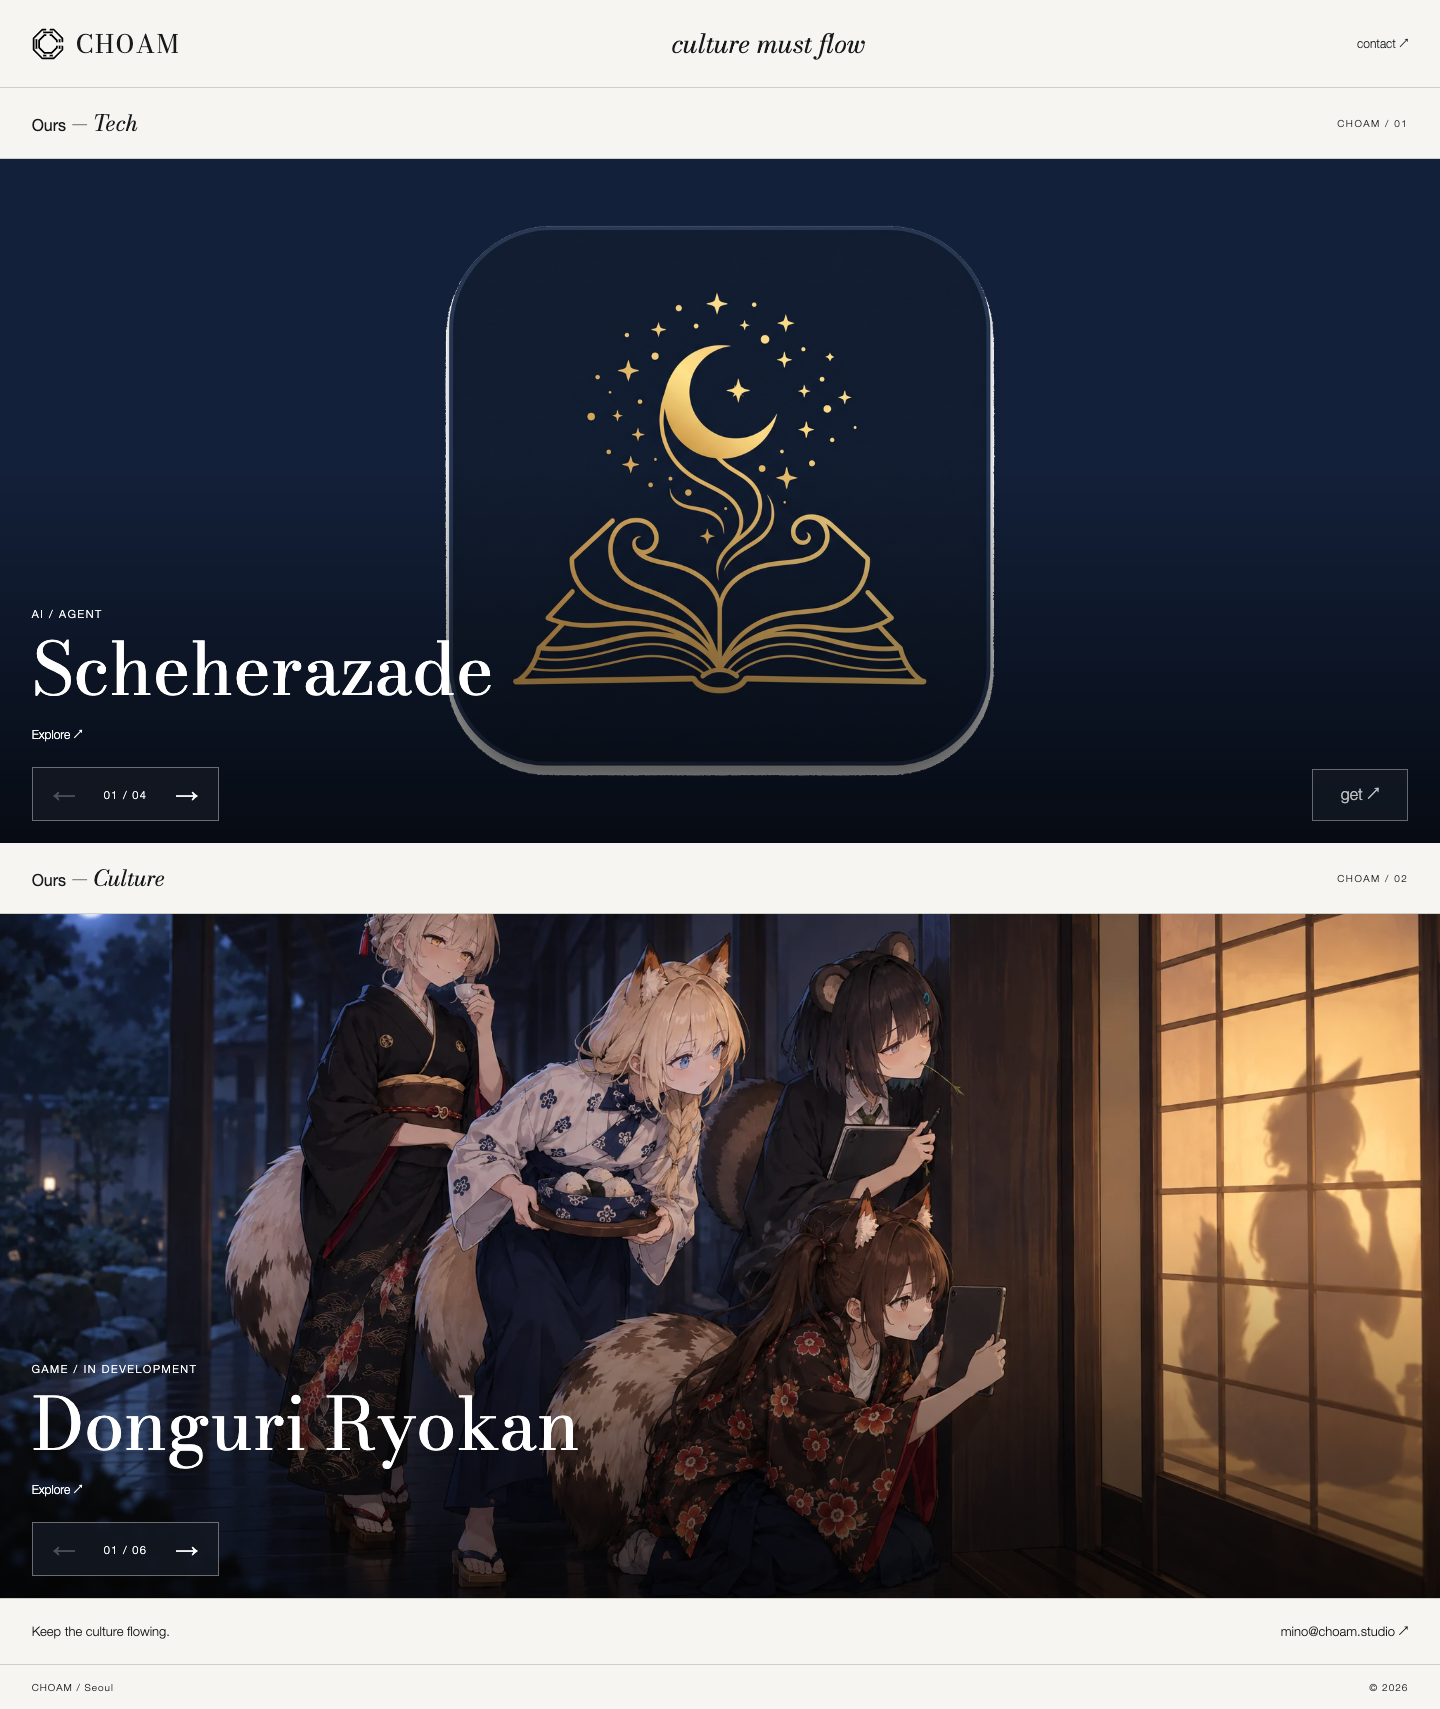
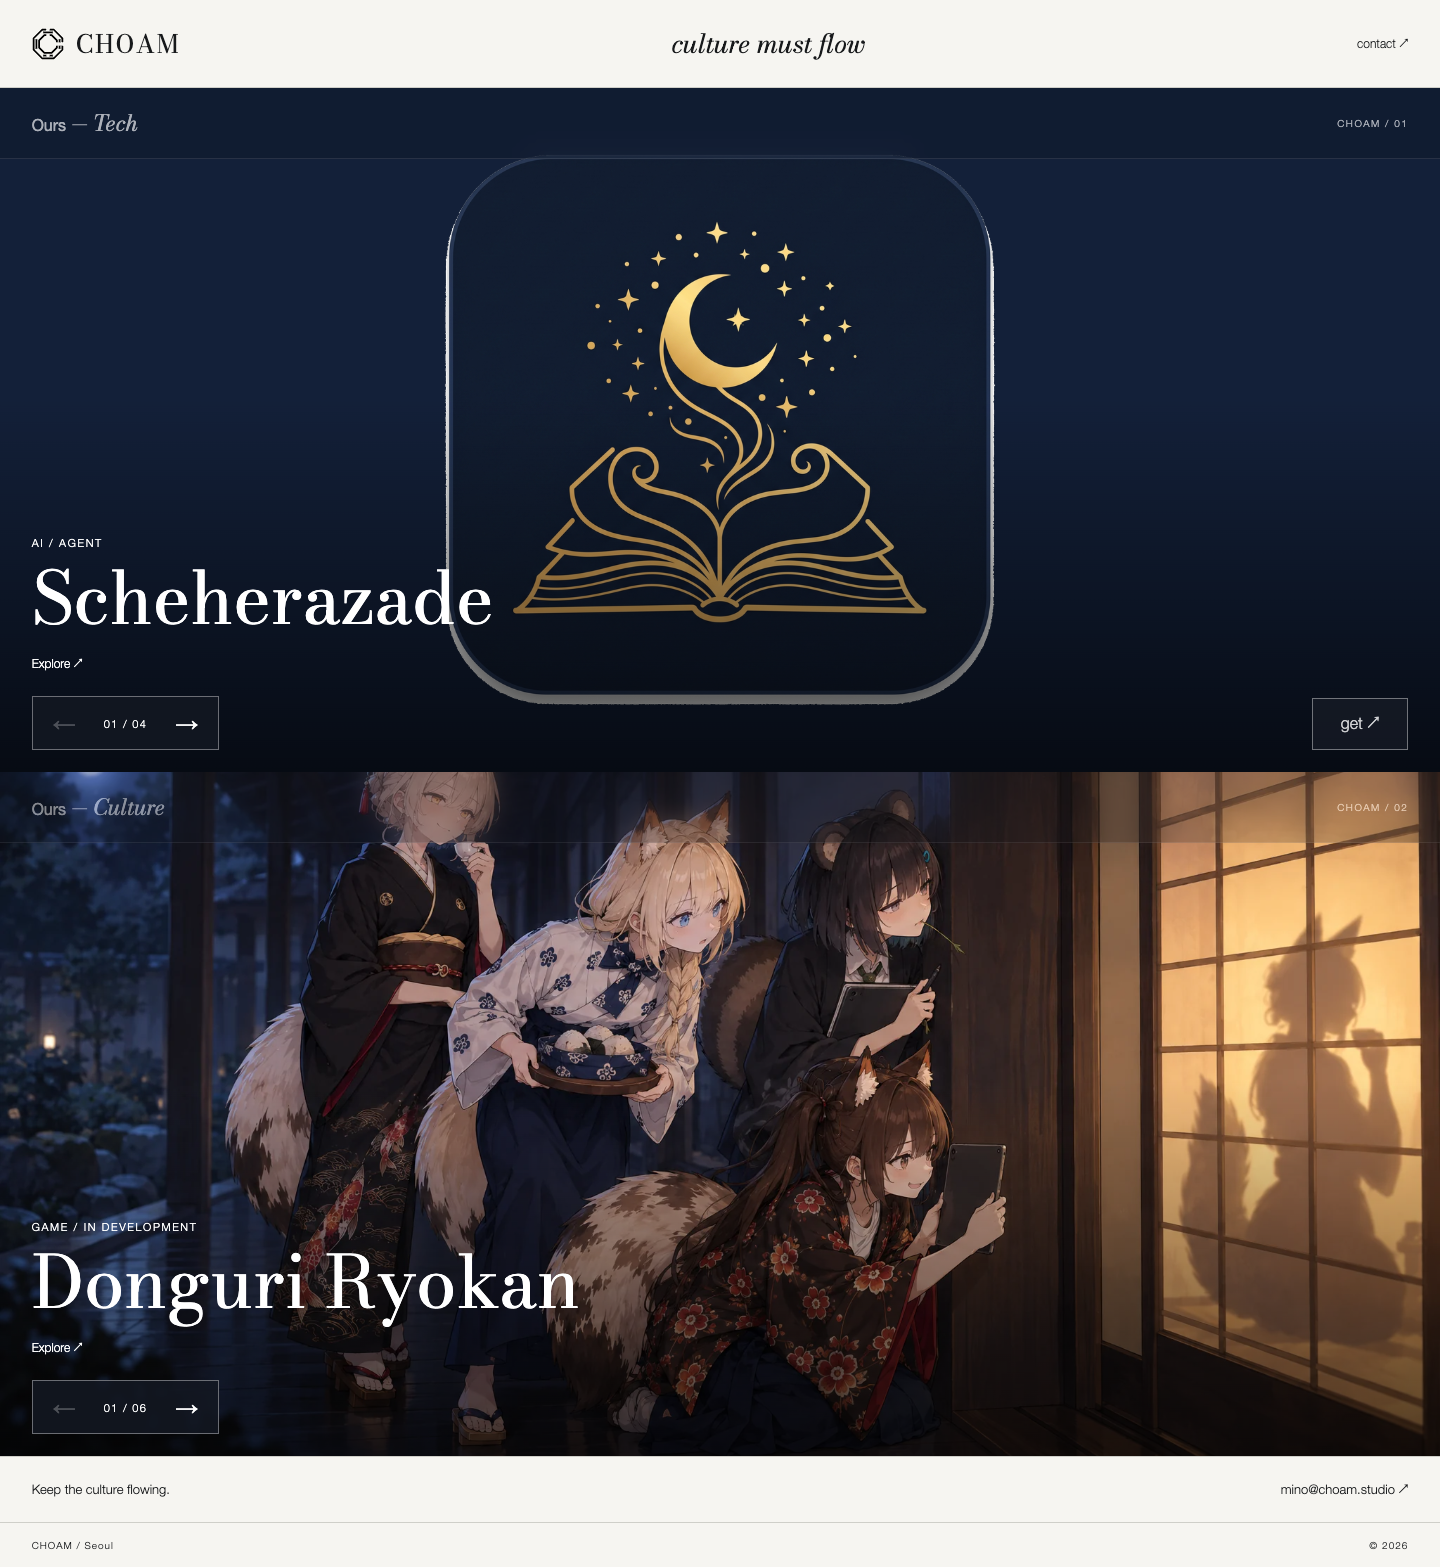
Float gallery labels and descriptions over continuous artwork

diff --git a/index.html b/index.html
@@ -1,1 +1,1 @@
-<!doctype html><html lang="en"><head><meta charset="utf-8"><meta name="viewport" content="width=device-width,initial-scale=1"><title>CHOAM</title><meta name="description" content="culture must flow"><link rel="icon" href="assets/mark.svg"><link href="https://fonts.googleapis.com/css2?family=Bodoni+Moda:ital,wght@0,400;1,400&display=swap" rel="stylesheet"><link rel="stylesheet" href="style.css"></head><body><header class="bar"><a class="brand" href="./" aria-label="CHOAM home"><img src="assets/mark.svg" alt=""><span>CHOAM</span></a><p>culture must flow</p><a class="index-link" href="#contact">contact ↗</a></header><main id="ours"><section class="gallery" aria-label="Ours — Tech"><div class="gallery-heading"><h2>Ours <i>— Tech</i></h2><span>CHOAM / 01</span></div><div class="gallery-stage"><div class="track" tabindex="0" aria-label="Tech gallery. Use left and right arrow keys"><article class="panel art scheherazade" data-project="scheherazade"><a class="art-link" href="pages/scheherazade.html" aria-label="Explore Scheherazade"><img src="assets/scheherazade.png" alt="Scheherazade key visual" draggable="false"><div class="art-caption"><p>AI / Agent</p><h3>Scheherazade</h3><span>Explore ↗</span></div></a></article><article class="panel description" data-project="scheherazade"><div class="description-copy"><p class="eyebrow">AI / Agent</p><h3><a href="pages/scheherazade.html">Scheherazade ↗</a></h3><p class="phrase">Agent stands more than 1001 nights</p><p class="placeholder">PLACEHOLDER COPY</p><p class="copy">A companion agent that remembers, keeps a journal, and reaches out. A little continuity for your everyday world.</p><a class="detail-link" href="pages/scheherazade.html">View story ↗</a></div></article><article class="panel art dat" data-project="dat"><a class="art-link" href="pages/dat.html" aria-label="Explore DAT"><span class="dat-mark" aria-hidden="true">DAT</span><div class="art-caption"><p>AI / Generative</p><h3>DAT</h3><span>Explore ↗</span></div></a></article><article class="panel description" data-project="dat"><div class="description-copy"><p class="eyebrow">AI / Generative</p><h3><a href="pages/dat.html">DAT ↗</a></h3><p class="phrase">Illustration, in a new register</p><p class="placeholder">PLACEHOLDER COPY</p><p class="copy">A Krea LoRA for illustration generation. Explore a visual language, then make it your own.</p><a class="detail-link" href="pages/dat.html">View story ↗</a></div></article></div><div class="gallery-controls"><button class="prev" aria-label="Previous page">←</button><span class="count" aria-live="polite"></span><button class="next" aria-label="Next page">→</button></div><a class="action" hidden></a></div></section><section class="gallery" aria-label="Ours — Culture"><div class="gallery-heading"><h2>Ours <i>— Culture</i></h2><span>CHOAM / 02</span></div><div class="gallery-stage"><div class="track" tabindex="0" aria-label="Culture gallery. Use left and right arrow keys"><article class="panel art donguri-ryokan" data-project="donguri-ryokan"><a class="art-link" href="pages/donguri-ryokan.html" aria-label="Explore Donguri Ryokan"><img src="assets/ryokan_kv_C2.webp" alt="Donguri Ryokan key visual" draggable="false"><div class="art-caption"><p>Game / In development</p><h3>Donguri Ryokan</h3><span>Explore ↗</span></div></a></article><article class="panel description" data-project="donguri-ryokan"><div class="description-copy"><p class="eyebrow">Game / In development</p><h3><a href="pages/donguri-ryokan.html">Donguri Ryokan ↗</a></h3><p class="phrase">Stay a little longer</p><p class="placeholder">PLACEHOLDER COPY</p><p class="copy">A quiet inn, unexpected guests, and stories after dark. Make room for another kind of everyday.</p><a class="detail-link" href="pages/donguri-ryokan.html">View story ↗</a></div></article><article class="panel art donguri-restaurant" data-project="donguri-restaurant"><a class="art-link" href="pages/donguri-restaurant.html" aria-label="Explore Donguri Restaurant"><img src="assets/restaurant-keyart.png" alt="Donguri Restaurant key visual" draggable="false"><div class="art-caption"><p>Game / Play now</p><h3>Donguri Restaurant</h3><span>Explore ↗</span></div></a></article><article class="panel description" data-project="donguri-restaurant"><div class="description-copy"><p class="eyebrow">Game / Play now</p><h3><a href="pages/donguri-restaurant.html">Donguri Restaurant ↗</a></h3><p class="phrase">Something good is on the table</p><p class="placeholder">PLACEHOLDER COPY</p><p class="copy">A small restaurant with a world of appetites. Cook, serve, and find your own rhythm.</p><a class="detail-link" href="pages/donguri-restaurant.html">View story ↗</a></div></article><article class="panel art seonjam" data-project="seonjam"><a class="art-link" href="pages/seonjam.html" aria-label="Explore Seonjam"><img src="assets/seonjam-main.webp" alt="Seonjam key visual" draggable="false"><div class="art-caption"><p>Visual novel / 선잠</p><h3>Seonjam</h3><span>Explore ↗</span></div></a></article><article class="panel description" data-project="seonjam"><div class="description-copy"><p class="eyebrow">Visual novel / 선잠</p><h3><a href="pages/seonjam.html">Seonjam ↗</a></h3><p class="phrase">Between waking and dreaming</p><p class="placeholder">PLACEHOLDER COPY</p><p class="copy">A visual novel about the moments we almost miss. Meet familiar faces in an unfamiliar light.</p><a class="detail-link" href="pages/seonjam.html">View story ↗</a></div></article></div><div class="gallery-controls"><button class="prev" aria-label="Previous page">←</button><span class="count" aria-live="polite"></span><button class="next" aria-label="Next page">→</button></div><a class="action" hidden></a></div></section></main><section id="contact" class="contact"><span>Keep the culture flowing.</span><a href="mailto:mino@choam.studio">mino@choam.studio ↗</a></section><footer class="foot"><span>CHOAM / Seoul</span><span>© 2026</span></footer><script src="main.js"></script></body></html>
+<!doctype html><html lang="en"><head><meta charset="utf-8"><meta name="viewport" content="width=device-width,initial-scale=1"><title>CHOAM</title><meta name="description" content="culture must flow"><link rel="icon" href="assets/mark.svg"><link href="https://fonts.googleapis.com/css2?family=Bodoni+Moda:ital,wght@0,400;1,400&display=swap" rel="stylesheet"><link rel="stylesheet" href="style.css"></head><body><header class="bar"><a class="brand" href="./" aria-label="CHOAM home"><img src="assets/mark.svg" alt=""><span>CHOAM</span></a><p>culture must flow</p><a class="index-link" href="#contact">contact ↗</a></header><main id="ours"><section class="gallery" aria-label="Ours — Tech"><div class="gallery-heading"><h2>Ours <i>— Tech</i></h2><span>CHOAM / 01</span></div><div class="gallery-stage"><div class="track" tabindex="0" aria-label="Tech gallery. Use left and right arrow keys"><article class="panel art scheherazade" data-project="scheherazade"><a class="art-link" href="pages/scheherazade.html" aria-label="Explore Scheherazade"><img src="assets/scheherazade.png" alt="Scheherazade key visual" draggable="false"><div class="art-caption"><p>AI / Agent</p><h3>Scheherazade</h3><span>Explore ↗</span></div></a></article><article class="panel description" data-project="scheherazade"><img class="description-art scheherazade" src="assets/scheherazade.png" alt="" aria-hidden="true"><div class="description-copy"><p class="eyebrow">AI / Agent</p><h3><a href="pages/scheherazade.html">Scheherazade ↗</a></h3><p class="phrase">Agent stands more than 1001 nights</p><p class="placeholder">PLACEHOLDER COPY</p><p class="copy">A companion agent that remembers, keeps a journal, and reaches out. A little continuity for your everyday world.</p><a class="detail-link" href="pages/scheherazade.html">View story ↗</a></div></article><article class="panel art dat" data-project="dat"><a class="art-link" href="pages/dat.html" aria-label="Explore DAT"><span class="dat-mark" aria-hidden="true">DAT</span><div class="art-caption"><p>AI / Generative</p><h3>DAT</h3><span>Explore ↗</span></div></a></article><article class="panel description dat" data-project="dat"><span class="description-art dat-mark" aria-hidden="true">DAT</span><div class="description-copy"><p class="eyebrow">AI / Generative</p><h3><a href="pages/dat.html">DAT ↗</a></h3><p class="phrase">Illustration, in a new register</p><p class="placeholder">PLACEHOLDER COPY</p><p class="copy">A Krea LoRA for illustration generation. Explore a visual language, then make it your own.</p><a class="detail-link" href="pages/dat.html">View story ↗</a></div></article></div><div class="gallery-controls"><button class="prev" aria-label="Previous page">←</button><span class="count" aria-live="polite"></span><button class="next" aria-label="Next page">→</button></div><a class="action" hidden></a></div></section><section class="gallery" aria-label="Ours — Culture"><div class="gallery-heading"><h2>Ours <i>— Culture</i></h2><span>CHOAM / 02</span></div><div class="gallery-stage"><div class="track" tabindex="0" aria-label="Culture gallery. Use left and right arrow keys"><article class="panel art donguri-ryokan" data-project="donguri-ryokan"><a class="art-link" href="pages/donguri-ryokan.html" aria-label="Explore Donguri Ryokan"><img src="assets/ryokan_kv_C2.webp" alt="Donguri Ryokan key visual" draggable="false"><div class="art-caption"><p>Game / In development</p><h3>Donguri Ryokan</h3><span>Explore ↗</span></div></a></article><article class="panel description" data-project="donguri-ryokan"><img class="description-art donguri-ryokan" src="assets/ryokan_kv_C2.webp" alt="" aria-hidden="true"><div class="description-copy"><p class="eyebrow">Game / In development</p><h3><a href="pages/donguri-ryokan.html">Donguri Ryokan ↗</a></h3><p class="phrase">Stay a little longer</p><p class="placeholder">PLACEHOLDER COPY</p><p class="copy">A quiet inn, unexpected guests, and stories after dark. Make room for another kind of everyday.</p><a class="detail-link" href="pages/donguri-ryokan.html">View story ↗</a></div></article><article class="panel art donguri-restaurant" data-project="donguri-restaurant"><a class="art-link" href="pages/donguri-restaurant.html" aria-label="Explore Donguri Restaurant"><img src="assets/restaurant-keyart.png" alt="Donguri Restaurant key visual" draggable="false"><div class="art-caption"><p>Game / Play now</p><h3>Donguri Restaurant</h3><span>Explore ↗</span></div></a></article><article class="panel description" data-project="donguri-restaurant"><img class="description-art donguri-restaurant" src="assets/restaurant-keyart.png" alt="" aria-hidden="true"><div class="description-copy"><p class="eyebrow">Game / Play now</p><h3><a href="pages/donguri-restaurant.html">Donguri Restaurant ↗</a></h3><p class="phrase">Something good is on the table</p><p class="placeholder">PLACEHOLDER COPY</p><p class="copy">A small restaurant with a world of appetites. Cook, serve, and find your own rhythm.</p><a class="detail-link" href="pages/donguri-restaurant.html">View story ↗</a></div></article><article class="panel art seonjam" data-project="seonjam"><a class="art-link" href="pages/seonjam.html" aria-label="Explore Seonjam"><img src="assets/seonjam-main.webp" alt="Seonjam key visual" draggable="false"><div class="art-caption"><p>Visual novel / 선잠</p><h3>Seonjam</h3><span>Explore ↗</span></div></a></article><article class="panel description" data-project="seonjam"><img class="description-art seonjam" src="assets/seonjam-main.webp" alt="" aria-hidden="true"><div class="description-copy"><p class="eyebrow">Visual novel / 선잠</p><h3><a href="pages/seonjam.html">Seonjam ↗</a></h3><p class="phrase">Between waking and dreaming</p><p class="placeholder">PLACEHOLDER COPY</p><p class="copy">A visual novel about the moments we almost miss. Meet familiar faces in an unfamiliar light.</p><a class="detail-link" href="pages/seonjam.html">View story ↗</a></div></article></div><div class="gallery-controls"><button class="prev" aria-label="Previous page">←</button><span class="count" aria-live="polite"></span><button class="next" aria-label="Next page">→</button></div><a class="action" hidden></a></div></section></main><section id="contact" class="contact"><span>Keep the culture flowing.</span><a href="mailto:mino@choam.studio">mino@choam.studio ↗</a></section><footer class="foot"><span>CHOAM / Seoul</span><span>© 2026</span></footer><script src="main.js"></script></body></html>

diff --git a/style.css b/style.css
@@ -1,1 +1,18 @@
 :root{--pad:clamp(16px,2.2vw,32px);--serif:'Bodoni Moda',Didot,serif;--ink:#17191b;--paper:#f6f5f1}*{box-sizing:border-box}body{margin:0;background:var(--paper);color:var(--ink);font-family:'Helvetica Neue',Arial,sans-serif;font-weight:300}a{color:inherit;text-decoration:none}button{font:inherit}a:focus-visible,button:focus-visible,.track:focus-visible{outline:2px solid #a77d3c;outline-offset:-4px}img{display:block;max-width:100%}.bar{display:flex;align-items:center;justify-content:space-between;gap:16px;padding:24px var(--pad);border-bottom:1px solid #cfcfc9}.brand{display:flex;gap:12px;align-items:center;font-family:var(--serif);font-size:25px;letter-spacing:.06em}.brand img{width:32px;height:32px}.bar p{font-family:var(--serif);font-style:italic;font-size:26px;margin:0}.index-link{font-size:12px}.gallery-heading{display:flex;justify-content:space-between;align-items:center;padding:18px var(--pad);border-bottom:1px solid #cfcfc9}.gallery-heading h2{margin:0;font-size:16px;font-weight:400}.gallery-heading i{font-family:var(--serif);font-size:22px;font-weight:400}.gallery-heading>span{font-size:10px;letter-spacing:.15em}.gallery-stage{position:relative;background:#151c2a;color:#fff}.track{display:flex;overflow-x:auto;scroll-snap-type:x mandatory;scrollbar-width:none;overscroll-behavior-x:contain}.track::-webkit-scrollbar{display:none}.panel{position:relative;flex:0 0 100%;min-width:0;height: min(76svh,850px);min-height:480px;scroll-snap-align:start;scroll-snap-stop:always}.art-link{display:block;width:100%;height:100%;overflow:hidden}.art img{width:100%;height:100%;object-fit:cover}.scheherazade img{object-fit:contain;background:#132039}.art-link:after{content:'';position:absolute;inset:45% 0 0;background:linear-gradient(transparent,#000a);pointer-events:none}.art-caption{position:absolute;left:var(--pad);bottom:100px;z-index:1}.art-caption p,.eyebrow{font-size:11px;letter-spacing:.15em;text-transform:uppercase}.art-caption h3{font-family:var(--serif);font-weight:400;font-size:clamp(42px,5vw,80px);line-height:1.05;margin:12px 0 16px}.art-caption span{font-size:12px}.dat{background:radial-gradient(ellipse at 65% 25%,#30394c,#111722 65%)}.dat-mark{display:grid;place-items:center;height:100%;font-size:clamp(100px,22vw,340px);letter-spacing:-.06em;font-weight:200;color:#b8bdc8}.description{background:var(--paper);color:var(--ink);display:flex;align-items:center;padding:var(--pad);background-image:linear-gradient(90deg,transparent 49.95%,#deded8 50%,transparent 50.05%)}.description-copy{max-width:850px;padding-left:8vw}.description h3,.stub h1{font-family:var(--serif);font-weight:400;font-size:clamp(42px,6vw,88px);line-height:1.05;margin:24px 0}.phrase{font-family:var(--serif);font-style:italic;font-size:clamp(24px,3vw,40px);margin:18px 0}.placeholder{font-size:10px;letter-spacing:.13em;color:#81745c;margin-top:28px}.copy{font-size:17px;line-height:1.65;max-width:540px}.detail-link{display:inline-block;border-bottom:1px solid;margin-top:18px;padding-bottom:6px;font-size:13px}.gallery-controls{position:absolute;left:var(--pad);bottom:22px;display:flex;align-items:center;gap:18px;border:1px solid #ffffff60;background:#131722dd;color:#fff;padding:6px 10px}.gallery-controls button{border:0;background:none;color:inherit;font-size:23px;padding:6px 10px;cursor:pointer}.gallery-controls button:disabled{opacity:.25;cursor:default}.count{font-size:11px;letter-spacing:.12em;min-width:42px;text-align:center}.action{position:absolute;right:var(--pad);bottom:22px;padding:15px 28px;background:#171c26cc;border:1px solid #ffffff80;color:#fff;font-size:16px;opacity:.72;transition:opacity .2s,background .2s}.action[hidden]{display:none}.gallery-stage:hover .action,.action:focus-visible{opacity:1;background:#171c26}.contact,.foot{display:flex;justify-content:space-between;gap:16px;padding:24px var(--pad);font-size:13px}.contact{border-top:1px solid #cfcfc9}.foot{padding-top:16px;padding-bottom:16px;border-top:1px solid #cfcfc9;font-size:10px;letter-spacing:.1em}.stub{padding:50px var(--pad);min-height:75svh}.stub>.eyebrow{margin-top:60px}.stub-images{display:grid;gap:16px;margin-top:40px}.stub-images img{width:100%;max-height:80svh;object-fit:contain;background:#151c2a}.dl{background:#14213d;color:#fff;min-height:calc(100svh - 85px);padding:60px var(--pad)}.ai-txt{max-width:900px;margin:auto}.ai-logo{width:100px}.ai-txt h2{font-family:var(--serif);font-size:clamp(40px,7vw,100px);font-weight:400;margin:24px 0}.dl-btns{display:flex;flex-wrap:wrap;gap:12px;margin-top:36px}.dlbtn{border:1px solid #ffffff90;padding:18px 24px;font-size:22px}.dlbtn small{font-size:12px}.dl-note{font-size:14px;line-height:1.7;margin-top:24px}.dl-note a{text-decoration:underline}@media(max-width:600px){.bar{padding:18px 16px;flex-wrap:wrap;gap:8px}.brand{font-size:20px}.brand img{width:24px;height:24px}.bar p{font-size:19px}.index-link{display:none}.gallery-heading{padding:15px 16px}.gallery-heading>span{font-size:9px}.panel{height:70svh;min-height:500px}.art-caption{bottom:100px}.art-caption h3{font-size:43px;max-width:300px}.donguri-ryokan img{object-position:65% center}.description-copy{padding-left:0;padding-bottom:64px}.description h3{font-size:43px}.phrase{font-size:25px}.copy{font-size:16px}.description{background-image:none}.contact{flex-direction:column;gap:8px}.action{padding:14px 22px}.dlbtn{width:100%}.stub{padding-top:30px}}@media(prefers-reduced-motion:reduce){*{scroll-behavior:auto!important;transition:none!important}}
+
+/* Artwork remains continuous; labels float rather than occupy a row. */
+.gallery{position:relative}
+.gallery-heading{position:absolute;inset:0 0 auto;z-index:4;color:#fff;background:rgba(10,14,22,.35);border-bottom:1px solid #ffffff25;backdrop-filter:blur(12px);-webkit-backdrop-filter:blur(12px);opacity:.5;transition:opacity .2s}
+@media(hover:hover) and (pointer:fine){.gallery:hover .gallery-heading,.gallery:focus-within .gallery-heading{opacity:1}}
+.description{background:#151c2a;color:#fff;background-image:none;padding:84px var(--pad) 100px;overflow:hidden}
+.description-art{position:absolute;inset:0;width:100%;height:100%;object-fit:cover}
+.description-art.scheherazade{object-fit:contain;background:#132039}
+.description.dat{background:radial-gradient(ellipse at 65% 25%,#30394c,#111722 65%)}
+.description-copy{position:relative;z-index:1;width: min(900px,100%);max-width:900px;margin-left:6vw;padding:28px 36px;background:rgba(10,14,22,.58);border:1px solid #ffffff25;backdrop-filter:blur(18px);-webkit-backdrop-filter:blur(18px)}
+.description h3{font-size:clamp(40px,5vw,72px);margin:18px 0}
+.description .phrase{font-size:clamp(24px,2.7vw,38px)}
+.description .placeholder{color:#d4c5a7;margin-top:20px}
+.description .copy{color:#ffffffd9}
+.description .eyebrow{margin-top:0}
+.description .detail-link{margin-top:10px}
+@media(max-width:600px){.description{padding:74px 16px 92px}.description-copy{margin:0;padding:20px 18px}.description h3{font-size:36px;margin:12px 0}.description .phrase{font-size:23px;margin:14px 0}.description .placeholder{font-size:9px;margin-top:16px}.description .copy{font-size:14px;line-height:1.55}.description .detail-link{margin-top:8px}.description-art.donguri-ryokan{object-position:65% center}}
